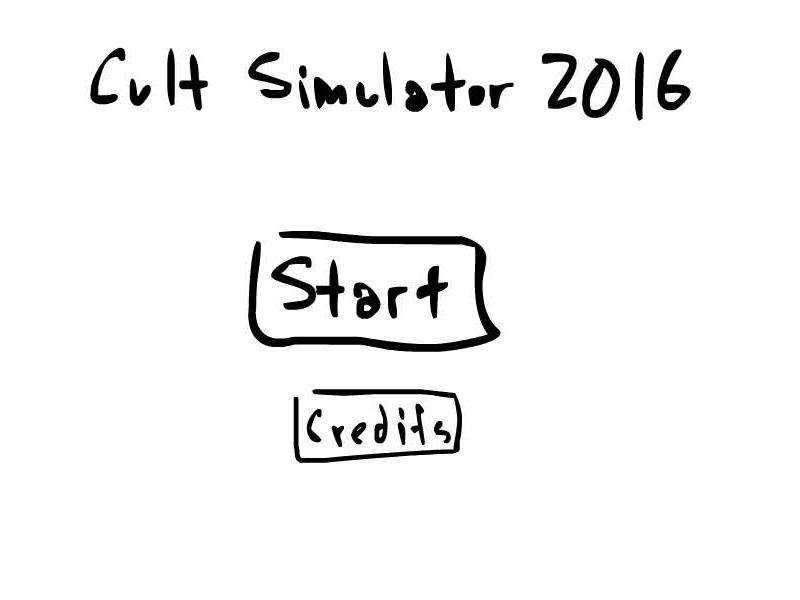
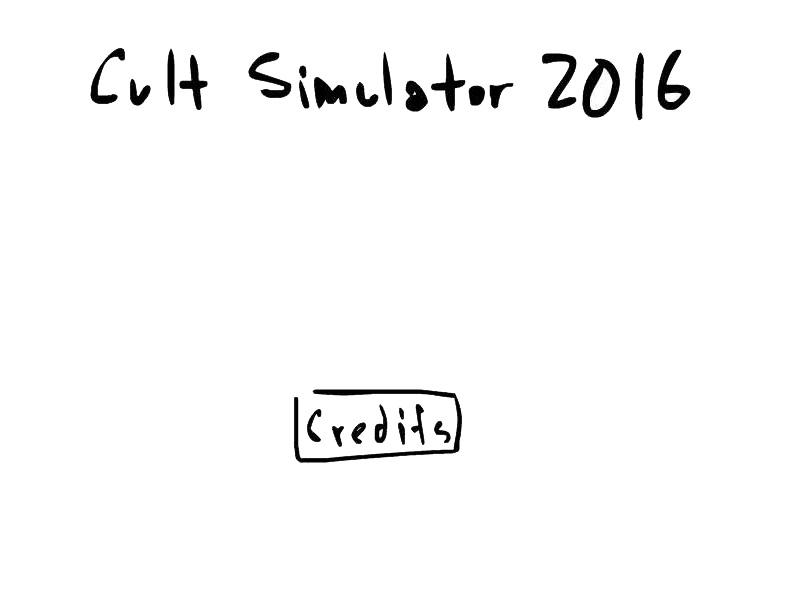
Add start button

diff --git a/preloader.js b/preloader.js
@@ -1,10 +1,11 @@
 var preloader = function(game){}
 
 preloader.prototype = {
-	preload: function(){ 
+	preload: function(){
 		//this.game.load.image("Test Title","Honeyview_game.png");
 		this.game.load.image("Test Title","titlescreen.jpg");
 		this.game.load.image("Test Cultist","testCultist.jpg");
+		this.game.load.spritesheet('start_button', 'assets/buttons/start_button_spritesheet.png', 267, 142);
 	},
   	create: function(){
 		this.game.state.start("Title Screen");
